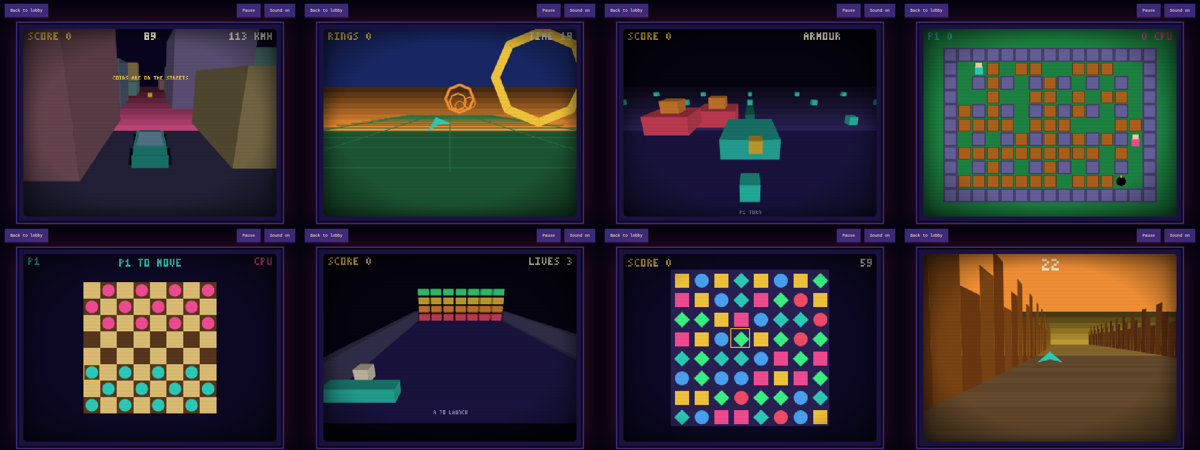
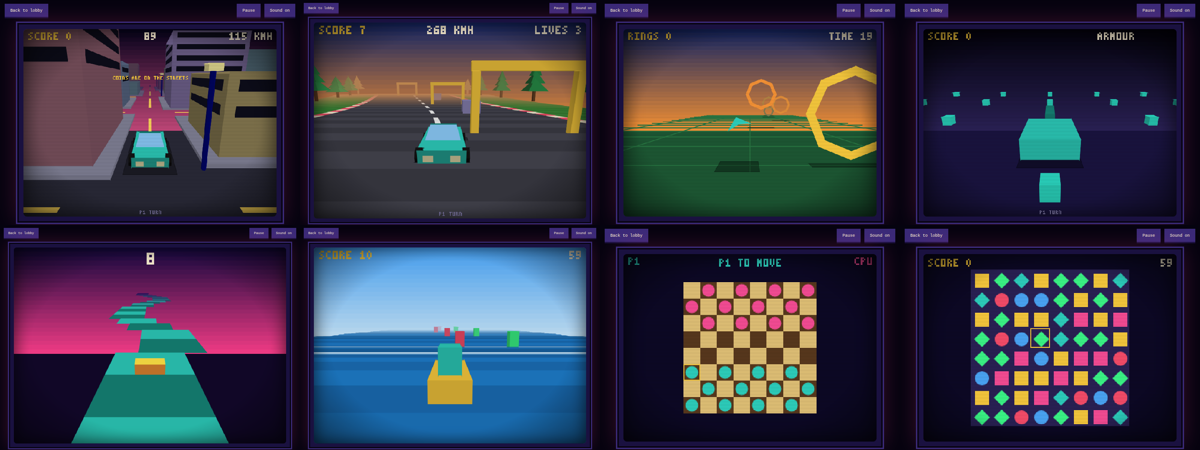
v5: HD polygon renderer, fog, lighting, shadows, detailed meshes

diff --git a/games/threed2.js b/games/threed2.js
@@ -1,14 +1,17 @@
 (function(){const A=window.A,{W,H,K}=A,R=A.rect,T=A.text,C=A.circ,L=A.line,rnd=A.rnd,ri=A.ri,cl=A.clamp,S=A.sfx,F=A.face,B3=A.box3;
 const ax=k=>(k.r?1:0)-(k.l?1:0),ay=k=>(k.d?1:0)-(k.u?1:0);
-const sky=(top,bot)=>{A.rect(0,0,W,130,top);for(let i=0;i<8;i++)A.rect(0,130-i*7-7,W,7,A.shade(bot,1-i*.1));};
+const sky=(top,bot)=>A.skyband(top,bot,130);
 const car=(x,y,z,a,col,dark)=>{const c=Math.cos(a),s=Math.sin(a),P=(px,py,pz)=>[x+px*c-pz*s,y+py,z+px*s+pz*c];const q=(p1,p2,p3,p4,cc)=>F([P(...p1),P(...p2),P(...p3),P(...p4)],cc);
- q([-.45,0,-.9],[.45,0,-.9],[.45,.35,-.9],[-.45,.35,-.9],col);q([.45,0,.9],[-.45,0,.9],[-.45,.35,.9],[.45,.35,.9],col);q([-.45,0,.9],[-.45,0,-.9],[-.45,.35,-.9],[-.45,.35,.9],col);q([.45,0,-.9],[.45,0,.9],[.45,.35,.9],[.45,.35,-.9],col);q([-.45,.35,-.9],[.45,.35,-.9],[.45,.35,.9],[-.45,.35,.9],col);
- q([-.38,.35,-.35],[.38,.35,-.35],[.3,.65,-.05],[-.3,.65,-.05],'#9fd8ff');q([.38,.35,.45],[-.38,.35,.45],[-.3,.65,.1],[.3,.65,.1],'#9fd8ff');q([-.3,.65,-.05],[.3,.65,-.05],[.3,.65,.1],[-.3,.65,.1],dark);q([-.38,.35,-.35],[-.3,.65,-.05],[-.3,.65,.1],[-.38,.35,.45],dark);q([.38,.35,.45],[.3,.65,.1],[.3,.65,-.05],[.38,.35,-.35],dark);
- [[-.5,-.55],[.5,-.55],[-.5,.55],[.5,.55]].forEach(w=>q([w[0]-.04,0,w[1]-.2],[w[0]+.04,0,w[1]-.2],[w[0]+.04,.28,w[1]+.2],[w[0]-.04,.28,w[1]+.2],'#111'));};
-const tree=(x,z,h)=>{B3(x,0,z,.25,h*.4,.25,'#5b3a1e');B3(x,h*.4,z,1,h*.6,1,'#1e8a45');};
+ A.shadow3(x,z,1.3,2.1);
+ q([-.45,.12,-.9],[.45,.12,-.9],[.45,.4,-.95],[-.45,.4,-.95],col);q([.45,.12,.9],[-.45,.12,.9],[-.45,.4,.95],[.45,.4,.95],col);q([-.45,.12,.9],[-.45,.12,-.9],[-.45,.4,-.95],[-.45,.4,.95],col);q([.45,.12,-.9],[.45,.12,.9],[.45,.4,.95],[.45,.4,-.95],col);q([-.45,.4,-.95],[.45,.4,-.95],[.45,.4,.95],[-.45,.4,.95],col);
+ q([-.38,.4,-.3],[.38,.4,-.3],[.3,.68,0],[-.3,.68,0],'#8fd0ff');q([.38,.4,.5],[-.38,.4,.5],[-.3,.68,.15],[.3,.68,.15],'#8fd0ff');q([-.3,.68,0],[.3,.68,0],[.3,.68,.15],[-.3,.68,.15],dark);q([-.38,.4,-.3],[-.3,.68,0],[-.3,.68,.15],[-.38,.4,.5],dark);q([.38,.4,.5],[.3,.68,.15],[.3,.68,0],[.38,.4,-.3],dark);
+ q([-.34,.18,-.96],[-.16,.18,-.96],[-.16,.3,-.96],[-.34,.3,-.96],'#fff7c0');q([.16,.18,-.96],[.34,.18,-.96],[.34,.3,-.96],[.16,.3,-.96],'#fff7c0');q([-.34,.18,.96],[-.16,.18,.96],[-.16,.3,.96],[-.34,.3,.96],'#ff2a2a');q([.16,.18,.96],[.34,.18,.96],[.34,.3,.96],[.16,.3,.96],'#ff2a2a');
+ [[-.48,-.58],[.48,-.58],[-.48,.58],[.48,.58]].forEach(w=>{const wp=P(w[0],.16,w[1]);A.cyl3(wp[0],wp[1],wp[2],.16,.12,'#151515',8,'x');});};
+const tree=(x,z,h)=>{A.cyl3(x,0,z,.14,h*.35,'#5b3a1e',6);for(let i=0;i<3;i++){const y=h*.3+i*h*.22,r=.9-i*.25;F([[x-r,y,z-r],[x+r,y,z-r],[x,y+h*.35,z]],'#1e8a45');F([[x+r,y,z-r],[x+r,y,z+r],[x,y+h*.35,z]],'#25a352');F([[x+r,y,z+r],[x-r,y,z+r],[x,y+h*.35,z]],'#1e8a45');F([[x-r,y,z+r],[x-r,y,z-r],[x,y+h*.35,z]],'#187a3c');}};
+const lamp=(x,z)=>{A.cyl3(x,0,z,.06,2.4,'#777',5);B3(x,2.4,z,.3,.15,.3,'#fff3a0');};
 
 /* ---- CITY CRUISER 3D ---- */
-A.add({id:'city',name:'CITY CRUISER 3D',cat:'RETRO 3D',how:'DRIVE THE GRID. GRAB COINS. DODGE CARS. 90 SEC.',warm:20,make(){
+A.add({id:'city',name:'CITY CRUISER 3D',cat:'RETRO 3D',hd:1,how:'DRIVE THE GRID. GRAB COINS. DODGE CARS. 90 SEC.',warm:20,make(){
  const g={over:null,score:0},N=6,SP=8,BC=['#5c6b8a','#8a5c6b','#6b8a5c','#7a6b9a','#9a8a5c','#5c8a8a'];let p={x:0,z:0,a:0,v:0},time=5400,coins=[],cars=[],flash=0,bld=[];
  for(let i=-N;i<N;i++)for(let j=-N;j<N;j++)bld.push({x:i*SP+SP/2,z:j*SP+SP/2,h:1.5+((i*7+j*13)%5)*.9,w:4+((i+j)%2),c:BC[(i*3+j*5+36)%6]});
  const spawnCoin=()=>{const i=ri(N*2)-N,j=ri(N*2)-N,h=Math.random()<.5;coins.push({x:h?i*SP+rnd(SP)-SP/2:i*SP,z:h?j*SP:j*SP+rnd(SP)-SP/2});};for(let i=0;i<10;i++)spawnCoin();
@@ -19,64 +22,63 @@ A.add({id:'city',name:'CITY CRUISER 3D',cat:'RETRO 3D',how:'DRIVE THE GRID. GRAB
   coins=coins.filter(c=>{if(Math.hypot(c.x-p.x,c.z-p.z)<1.1){g.score+=10;S('coin');spawnCoin();return false;}return true;});
   for(const c of cars){c.x+=Math.sin(c.a)*c.v;c.z+=Math.cos(c.a)*c.v;if(Math.abs(c.x)>N*SP||Math.abs(c.z)>N*SP)c.a+=3.1416;if(Math.hypot(c.x-p.x,c.z-p.z)<1.5&&flash===0){flash=40;g.score=Math.max(0,g.score-5);p.v*=-.5;S('boom');}}
   if(time<=0)g.over='TIME UP';};
- g.draw=()=>{sky('#0a0520','#c7497d');R(0,130,W,110,'#23223a');A.cam.x=p.x-Math.sin(p.a)*4.5;A.cam.z=p.z-Math.cos(p.a)*4.5;A.cam.y=2.2;A.cam.ry=-p.a;A.cam.rx=-.28;
-  const vis=o=>{const dx=o.x-p.x,dz=o.z-p.z;return dx*Math.sin(p.a)+dz*Math.cos(p.a)>-3&&Math.hypot(dx,dz)<34;};
-  for(let i=-N;i<=N;i++){const a=A.p3(i*SP,.01,-N*SP),b=A.p3(i*SP,.01,N*SP);}
-  bld.forEach(b=>{if(vis(b))B3(b.x,0,b.z,b.w,b.h,b.w,b.c);});
-  coins.forEach(c=>{if(vis(c))B3(c.x,.3+Math.sin(A.t*.1)*.1,c.z,.4,.4,.15,K.y);});
-  cars.forEach(c=>{if(vis(c))car(c.x,0,c.z,c.a,c.c,'#333');});if(flash%6<3)car(p.x,0,p.z,p.a,K.c,'#178a7d');A.flush();
-  // road markings drawn after flush as thin lines on ground
+ g.draw=()=>{sky('#0a0520','#c7497d');R(0,130,W,110,'#2a2a38');A.fog={col:'#3a2050',near:14,far:34};A.cam.x=p.x-Math.sin(p.a)*4.5;A.cam.z=p.z-Math.cos(p.a)*4.5;A.cam.y=2.3;A.cam.ry=-p.a;A.cam.rx=-.28;
+  const vis=(o,r)=>{const dx=o.x-p.x,dz=o.z-p.z;return dx*Math.sin(p.a)+dz*Math.cos(p.a)>-4&&Math.hypot(dx,dz)<(r||34);};
+  bld.forEach(b=>{if(!vis(b))return;B3(b.x,0,b.z,b.w+1.2,.12,b.w+1.2,'#8a8aa0');B3(b.x,0,b.z,b.w,b.h,b.w,b.c);if(vis(b,16))for(let f=.5;f<b.h-.3;f+=.7){const hw=b.w/2+.01;F([[b.x-hw+.3,f,b.z-hw],[b.x+hw-.3,f,b.z-hw],[b.x+hw-.3,f+.3,b.z-hw],[b.x-hw+.3,f+.3,b.z-hw]],'#0d0d1a',false);F([[b.x+hw-.3,f,b.z+hw],[b.x-hw+.3,f,b.z+hw],[b.x-hw+.3,f+.3,b.z+hw],[b.x+hw-.3,f+.3,b.z+hw]],'#0d0d1a',false);F([[b.x-hw,f,b.z+hw-.3],[b.x-hw,f,b.z-hw+.3],[b.x-hw,f+.3,b.z-hw+.3],[b.x-hw,f+.3,b.z+hw-.3]],'#0d0d1a',false);F([[b.x+hw,f,b.z-hw+.3],[b.x+hw,f,b.z+hw-.3],[b.x+hw,f+.3,b.z+hw-.3],[b.x+hw,f+.3,b.z-hw+.3]],'#0d0d1a',false);}});
+  for(let i=-N;i<=N;i++)for(let j=-N;j<=N;j++){const gx=i*SP,gz=j*SP;if(vis({x:gx,z:gz},30)){F([[gx-.06,.02,gz+1.6],[gx+.06,.02,gz+1.6],[gx+.06,.02,gz+SP-1.6],[gx-.06,.02,gz+SP-1.6]],'#ffd75a',false);F([[gx+1.6,.02,gz-.06],[gx+SP-1.6,.02,gz-.06],[gx+SP-1.6,.02,gz+.06],[gx+1.6,.02,gz+.06]],'#ffd75a',false);if((i+j)%2===0)lamp(gx+1.35,gz+1.35);}}
+  coins.forEach(c=>{if(vis(c))A.cyl3(c.x,.35+Math.sin(A.t*.1)*.1,c.z,.3,.12,K.y,8,'x');});
+  cars.forEach(c=>{if(vis(c))car(c.x,0,c.z,c.a,c.c,'#333');});if(flash%6<3)car(p.x,0,p.z,p.a,K.c,'#178a7d');A.flush();A.fog=null;
   T('SCORE '+g.score,6,4,K.y,2);T(Math.ceil(time/60),160,4,time<600?K.r:K.w,2,'c');T(Math.round(Math.abs(p.v)*600)+' KMH',W-6,4,K.w,2,'r');if(A.t<180)T('COINS ARE ON THE STREETS',160,60,K.y,1,'c');};
  return g;}});
 
 /* ---- MESH DRIFT 3D ---- */
-A.add({id:'drift',name:'MESH DRIFT 3D',cat:'RETRO 3D',how:'STEER. UP GAS. PASS GATES FOR POINTS.',make(){
+A.add({id:'drift',name:'MESH DRIFT 3D',cat:'RETRO 3D',hd:1,how:'STEER. UP GAS. PASS GATES FOR POINTS.',make(){
  const g={over:null,score:0};let d=0,x=0,v=.12,lives=3,inv=0,gates=[],rocks=[];const cx=z=>Math.sin(z*.05)*6+Math.sin(z*.021)*4,hy=z=>Math.sin(z*.08)*.6;
  for(let i=1;i<20;i++){gates.push({z:i*14,x:rnd(6)-3,ok:0});rocks.push({z:i*14+7,x:rnd(10)-5});}
  g.update=()=>{const k=A.in(0);v+=k.u||k.a?.003:-.001;v=cl(v,.08,.3);d+=v;x+=ax(k)*.16;x=cl(x,-6,6);if(inv>0)inv--;
   for(const q of gates){if(!q.ok&&q.z<d){q.ok=1;if(Math.abs(cx(q.z)+q.x-x)<1.6){g.score+=50;S('coin');}}if(q.z<d-4){q.z+=280;q.x=rnd(6)-3;q.ok=0;}}
   for(const r of rocks){if(r.z<d-4){r.z+=280;r.x=rnd(10)-5;}if(inv===0&&Math.abs(r.z-d)<1.2&&Math.abs(cx(r.z)+r.x-x)<1.1){lives--;inv=80;v=.08;S('boom');if(lives<=0)g.over='WRECKED';}}
   if(A.t%20===0)g.score++;};
- g.draw=()=>{sky('#1a2a6a','#ff9838');R(0,130,W,110,'#7a4f1d');const px=cx(d)+x,py=hy(d);A.cam.x=px-Math.sin(0)*0;A.cam.z=d-4;A.cam.y=py+1.6;A.cam.ry=0;A.cam.rx=-.2;A.cam.x=cx(d-4)+x*.8;
-  for(let z=Math.floor(d)-2;z<d+34;z++){const a=cx(z),b=cx(z+1),ya=hy(z),yb=hy(z+1);F([[a-7,ya,z],[a+7,ya,z],[b+7,yb,z+1],[b-7,yb,z+1]],z%2?'#4a4a55':'#3e3e48');F([[a-7.6,ya,z],[a-7,ya,z],[b-7,yb,z+1],[b-7.6,yb,z+1]],z%2?K.r:K.w);F([[a+7,ya,z],[a+7.6,ya,z],[b+7.6,yb,z+1],[b+7,yb,z+1]],z%2?K.r:K.w);if(z%6===0)tree(a-11,z,2.5+(z%5)*.3),tree(b+11,z,2+(z%7)*.3);}
+ g.draw=()=>{sky('#1a2a6a','#ff9838');C(160,118,22,'#ffd75a');R(0,130,W,110,'#7a4f1d');A.fog={col:'#c78a5a',near:16,far:36};const px=cx(d)+x,py=hy(d);A.cam.x=px-Math.sin(0)*0;A.cam.z=d-4;A.cam.y=py+1.6;A.cam.ry=0;A.cam.rx=-.2;A.cam.x=cx(d-4)+x*.8;
+  for(let z=Math.floor(d)-2;z<d+34;z++){const a=cx(z),b=cx(z+1),ya=hy(z),yb=hy(z+1);F([[a-7,ya,z],[a+7,ya,z],[b+7,yb,z+1],[b-7,yb,z+1]],z%2?'#4a4a55':'#3e3e48');if(z%4<2&&z>d)F([[a-.12,ya+.01,z],[a+.12,ya+.01,z],[b+.12,yb+.01,z+1],[b-.12,yb+.01,z+1]],'#e8e8e8',false);F([[a-16,ya-.2,z],[a-7.6,ya,z],[b-7.6,yb,z+1],[b-16,yb-.2,z+1]],z%2?'#3f8a3a':'#377f33');F([[a+7.6,ya,z],[a+16,ya-.2,z],[b+16,yb-.2,z+1],[b+7.6,yb,z+1]],z%2?'#3f8a3a':'#377f33');F([[a-7.6,ya,z],[a-7,ya,z],[b-7,yb,z+1],[b-7.6,yb,z+1]],z%2?K.r:K.w);F([[a+7,ya,z],[a+7.6,ya,z],[b+7.6,yb,z+1],[b+7,yb,z+1]],z%2?K.r:K.w);if(z%6===0)tree(a-11,z,2.5+(z%5)*.3),tree(b+11,z,2+(z%7)*.3);}
   gates.forEach(q=>{if(q.z>d-2&&q.z<d+34){const gx=cx(q.z)+q.x,gy=hy(q.z);B3(gx-1.7,gy,q.z,.25,2.2,.25,q.ok?K.gr:K.y);B3(gx+1.7,gy,q.z,.25,2.2,.25,q.ok?K.gr:K.y);B3(gx,gy+2.2,q.z,3.7,.3,.25,q.ok?K.gr:K.y);}});
   rocks.forEach(r=>{if(r.z>d-2&&r.z<d+34)B3(cx(r.z)+r.x,hy(r.z),r.z,1.2,.9,1.2,'#8d86b8');});
-  if(inv%8<5)car(px,py,d,ax(A.in(0))*.25,K.c,'#178a7d');A.flush();T('SCORE '+g.score,6,4,K.y,2);T('LIVES '+lives,W-6,4,lives<2?K.r:K.w,2,'r');T(Math.round(v*900)+' KMH',160,4,K.w,2,'c');};
+  if(inv%8<5)car(px,py,d,ax(A.in(0))*.25,K.c,'#178a7d');A.flush();A.fog=null;T('SCORE '+g.score,6,4,K.y,2);T('LIVES '+lives,W-6,4,lives<2?K.r:K.w,2,'r');T(Math.round(v*900)+' KMH',160,4,K.w,2,'c');};
  return g;}});
 
 /* ---- CUBE FIELD 3D ---- */
-A.add({id:'cubes',name:'CUBE FIELD 3D',cat:'RETRO 3D',how:'STEER LEFT/RIGHT. NEVER STOP. SURVIVE.',make(){
+A.add({id:'cubes',name:'CUBE FIELD 3D',cat:'RETRO 3D',hd:1,how:'STEER LEFT/RIGHT. NEVER STOP. SURVIVE.',make(){
  const g={over:null,score:0};let x=0,z=0,v=.14,cubes=[],hue=0;for(let i=0;i<90;i++)cubes.push({x:rnd(40)-20,z:rnd(80)+5,c:i%3});
  g.update=()=>{const k=A.in(0);x+=ax(k)*.22;z+=v;v+=.00008;g.score=z*2|0;hue=(z/50)|0;
   for(const c of cubes){if(c.z<z-1){c.z+=80+rnd(6);c.x=x+rnd(40)-20;}if(Math.abs(c.z-z)<.9&&Math.abs(c.x-x)<1.1){g.over='CRASHED';S('boom');}}};
- g.draw=()=>{const pal=[['#0a0520','#ff3f8e','#2fe8d0'],['#03101f','#ffcf3f','#4dabff'],['#1a0a0a','#3dff8b','#ff9838'],['#0f0f1a','#ffffff','#ff4f6d']][hue%4];sky(pal[0],pal[0]);R(0,120,W,120,'#111');A.cam.x=x;A.cam.z=z-3;A.cam.y=1.4;A.cam.ry=0;A.cam.rx=-.15;
+ g.draw=()=>{const pal=[['#0a0520','#ff3f8e','#2fe8d0'],['#03101f','#ffcf3f','#4dabff'],['#1a0a0a','#3dff8b','#ff9838'],['#0f0f1a','#ffffff','#ff4f6d']][hue%4];sky(pal[0],'#000');R(0,120,W,120,'#111');A.fog={col:pal[0],near:20,far:60};A.cam.x=x;A.cam.z=z-3;A.cam.y=1.4;A.cam.ry=0;A.cam.rx=-.15;
   for(let i=-20;i<=20;i+=4){const a=A.p3(x+i,0,z+1),b=A.p3(x+i,0,z+60);if(a[2]>.1&&b[2]>.1)L(a[0],a[1],b[0],b[1],pal[1]);}
-  cubes.forEach(c=>{if(c.z>z-1&&c.z<z+60)B3(c.x,0,c.z,1.4,1.4+c.c*.8,1.4,c.c?pal[1]:pal[2]);});A.flush();T(g.score,160,6,K.w,3,'c');};
+  cubes.forEach(c=>{if(c.z>z-1&&c.z<z+60)B3(c.x,0,c.z,1.4,1.4+c.c*.8,1.4,c.c?pal[1]:pal[2]);});A.flush();A.fog=null;T(g.score,160,6,K.w,3,'c');};
  return g;}});
 
 /* ---- TUNNEL RUN 3D ---- */
-A.add({id:'tunnel',name:'TUNNEL RUN 3D',cat:'RETRO 3D',how:'MOVE TO THE GAP IN EACH WALL.',make(){
+A.add({id:'tunnel',name:'TUNNEL RUN 3D',cat:'RETRO 3D',hd:1,how:'MOVE TO THE GAP IN EACH WALL.',make(){
  const g={over:null,score:0};let px=0,py=0,z=0,v=.16,walls=[];for(let i=1;i<12;i++)walls.push({z:i*9,gx:ri(3)-1,gy:ri(3)-1,ok:0});
  g.update=()=>{const k=A.in(0);px=cl(px+ax(k)*.16,-1.8,1.8);py=cl(py-ay(k)*.16,-1.8,1.8);z+=v;v+=.00012;
   for(const w of walls){if(!w.ok&&w.z<z){w.ok=1;const inG=Math.abs(px-w.gx*1.9)<1&&Math.abs(py-w.gy*1.9)<1;if(inG){g.score+=10;S('coin');}else{g.over='SMASHED';S('boom');}}if(w.z<z-2){w.z+=99;w.gx=ri(3)-1;w.gy=ri(3)-1;w.ok=0;}}};
- g.draw=()=>{A.cls('#05030f');A.cam.x=px*.4;A.cam.y=py*.4;A.cam.z=z-3;A.cam.ry=0;A.cam.rx=0;
+ g.draw=()=>{A.cls('#05030f');A.fog={col:'#05030f',near:25,far:75};A.cam.x=px*.4;A.cam.y=py*.4;A.cam.z=z-3;A.cam.ry=0;A.cam.rx=0;
   for(let i=0;i<12;i++){const zz=Math.floor(z/8)*8+i*8,c=i%2?'#2b2257':'#1b1440';F([[-3,-3,zz],[3,-3,zz],[3,-3,zz+8],[-3,-3,zz+8]],c);F([[-3,3,zz],[3,3,zz],[3,3,zz+8],[-3,3,zz+8]],c);F([[-3,-3,zz],[-3,3,zz],[-3,3,zz+8],[-3,-3,zz+8]],c);F([[3,-3,zz],[3,3,zz],[3,3,zz+8],[3,-3,zz+8]],c);}
   walls.forEach(w=>{if(w.z<z+70)for(let i=-1;i<=1;i++)for(let j=-1;j<=1;j++)if(!(i===w.gx&&j===w.gy))F([[i*1.9-.95,j*1.9-.95,w.z],[i*1.9+.95,j*1.9-.95,w.z],[i*1.9+.95,j*1.9+.95,w.z],[i*1.9-.95,j*1.9+.95,w.z]],w.z-z<12?K.p:'#a0205a');});
-  A.flush();const s=A.p3(px,py,z+1.5);A.poly([[s[0],s[1]-6],[s[0]-9,s[1]+5],[s[0],s[1]+2],[s[0]+9,s[1]+5]],K.c,1);T(g.score,160,6,K.w,3,'c');};
+  A.flush();A.fog=null;const s=A.p3(px,py,z+1.5);A.poly([[s[0],s[1]-6],[s[0]-9,s[1]+5],[s[0],s[1]+2],[s[0]+9,s[1]+5]],K.c,1);T(g.score,160,6,K.w,3,'c');};
  return g;}});
 
 /* ---- TRENCH RUN 3D ---- */
-A.add({id:'trench',name:'TRENCH RUN 3D',cat:'RETRO 3D',how:'FLY. A FIRES. BLAST TURRETS, DODGE BARS.',make(){
+A.add({id:'trench',name:'TRENCH RUN 3D',cat:'RETRO 3D',hd:1,how:'FLY. A FIRES. BLAST TURRETS, DODGE BARS.',make(){
  const g={over:null,score:0};let px=0,py=0,z=0,v=.15,ob=[],bl=[],sh=3,inv=0;for(let i=1;i<16;i++)ob.push({z:i*10,t:i%3===0?1:0,x:ri(3)-1,y:ri(2),hp:1});
  g.update=()=>{const k=A.in(0);px=cl(px+ax(k)*.14,-2,2);py=cl(py-ay(k)*.14,-1.5,1.5);z+=v;if(inv>0)inv--;if(A.hit(0).a&&bl.length<4){bl.push({x:px,y:py,z:z+1});S('shoot');}
   bl.forEach(b=>b.z+=.9);bl=bl.filter(b=>b.z<z+60);
   for(const o of ob){if(o.t===1&&o.hp>0)for(const b of bl)if(Math.abs(b.z-o.z)<1&&Math.abs(b.x-o.x*1.5)<.9&&Math.abs(b.y-(o.y?1:-1.5))<1){o.hp=0;b.z=999;g.score+=100;S('hit');}
    if(o.z<z+.5&&o.z>z-.5&&inv===0){const hit=o.t===0?(o.y?py>-.2:py<.2)&&true:o.hp>0&&Math.abs(px-o.x*1.5)<1&&Math.abs(py-(o.y?1:-1.5))<1;if(hit){sh--;inv=70;S('boom');if(sh<=0)g.over='SHIP LOST';}}
    if(o.z<z-2){o.z+=150;o.t=Math.random()<.35?1:0;o.x=ri(3)-1;o.y=ri(2);o.hp=1;}}if(A.t%30===0)g.score++;};
- g.draw=()=>{A.cls('#05030f');A.cam.x=px*.5;A.cam.y=py*.5+.2;A.cam.z=z-3;A.cam.ry=0;A.cam.rx=0;
+ g.draw=()=>{A.cls('#05030f');A.fog={col:'#05030f',near:30,far:75};A.cam.x=px*.5;A.cam.y=py*.5+.2;A.cam.z=z-3;A.cam.ry=0;A.cam.rx=0;
   for(let i=0;i<10;i++){const zz=Math.floor(z/8)*8+i*8,c=i%2?'#4a4570':'#3a3560';F([[-3,-2,zz],[3,-2,zz],[3,-2,zz+8],[-3,-2,zz+8]],c);F([[-3,-2,zz],[-3,2.5,zz],[-3,2.5,zz+8],[-3,-2,zz+8]],c);F([[3,-2,zz],[3,2.5,zz],[3,2.5,zz+8],[3,-2,zz+8]],c);}
   ob.forEach(o=>{if(o.z<z+70&&o.z>z-1){if(o.t===0)B3(0,o.y?-.1:-2,o.z,6,1.6,.5,K.r);else if(o.hp>0)B3(o.x*1.5,o.y?.5:-2,o.z,1,1,1,K.o);}});
-  A.flush();bl.forEach(b=>{const p=A.p3(b.x,b.y,b.z);if(p[2]>.1)R(p[0]-1,p[1]-1,3,3,K.g);});if(inv%8<5){const s=A.p3(px,py,z+1.5);A.poly([[s[0],s[1]-7],[s[0]-11,s[1]+6],[s[0],s[1]+2],[s[0]+11,s[1]+6]],K.c,1);}
+  A.flush();A.fog=null;bl.forEach(b=>{const p=A.p3(b.x,b.y,b.z);if(p[2]>.1)R(p[0]-1,p[1]-1,3,3,K.g);});if(inv%8<5){const s=A.p3(px,py,z+1.5);A.poly([[s[0],s[1]-7],[s[0]-11,s[1]+6],[s[0],s[1]+2],[s[0]+11,s[1]+6]],K.c,1);}
   T('SCORE '+g.score,6,4,K.y,2);T('SHIELDS '+sh,W-6,4,sh<2?K.r:K.w,2,'r');};
  return g;}});
 })();

diff --git a/games/threed3.js b/games/threed3.js
@@ -1,32 +1,32 @@
 (function(){const A=window.A,{W,H,K}=A,R=A.rect,T=A.text,C=A.circ,L=A.line,rnd=A.rnd,ri=A.ri,cl=A.clamp,S=A.sfx,F=A.face,B3=A.box3;
 const ax=k=>(k.r?1:0)-(k.l?1:0),ay=k=>(k.d?1:0)-(k.u?1:0);
-const sky=(top,bot)=>{A.rect(0,0,W,130,top);for(let i=0;i<8;i++)A.rect(0,130-i*7-7,W,7,A.shade(bot,1-i*.1));};
+const sky=(top,bot)=>A.skyband(top,bot,130);
 const ring3=(x,y,z,r,col)=>{for(let i=0;i<8;i++){const a=i*.785,b=a+.785;F([[x+Math.cos(a)*r,y+Math.sin(a)*r,z],[x+Math.cos(b)*r,y+Math.sin(b)*r,z],[x+Math.cos(b)*(r+.3),y+Math.sin(b)*(r+.3),z],[x+Math.cos(a)*(r+.3),y+Math.sin(a)*(r+.3),z]],col,false);}};
 
 /* ---- RING RACE 3D ---- */
-A.add({id:'rings',name:'RING RACE 3D',cat:'RETRO 3D',how:'FLY THROUGH EVERY RING. EACH ONE ADDS TIME.',make(){
+A.add({id:'rings',name:'RING RACE 3D',cat:'RETRO 3D',hd:1,how:'FLY THROUGH EVERY RING. EACH ONE ADDS TIME.',make(){
  const g={over:null,score:0};let px=0,py=1.5,z=0,v=.2,time=1200,rings=[],roll=0;for(let i=1;i<10;i++)rings.push({z:i*12,x:rnd(6)-3,y:1+rnd(3),ok:0});
  g.update=()=>{time--;const k=A.in(0);px=cl(px+ax(k)*.13,-4,4);py=cl(py-ay(k)*.13,.4,5);roll+=(ax(k)*.4-roll)*.1;z+=v;v=Math.min(.34,v+.0001);
   for(const r of rings){if(!r.ok&&r.z<z){r.ok=1;if(Math.hypot(px-r.x,py-r.y)<1.3){g.score+=10;time+=240;S('coin');}else S('lose');}if(r.z<z-2){r.z+=108;r.x=rnd(6)-3;r.y=1+rnd(3);r.ok=0;}}if(time<=0)g.over='TIME UP';};
- g.draw=()=>{sky('#1a2a6a','#ff9838');R(0,130,W,110,'#1e5a35');A.cam.x=px*.9;A.cam.y=py*.9+.6;A.cam.z=z-4;A.cam.ry=0;A.cam.rx=-.08;
+ g.draw=()=>{sky('#1a2a6a','#ff9838');R(0,130,W,110,'#1e5a35');A.fog={col:'#6a7a5a',near:25,far:60};A.cam.x=px*.9;A.cam.y=py*.9+.6;A.cam.z=z-4;A.cam.ry=0;A.cam.rx=-.08;
   for(let i=-4;i<=4;i+=2){const a=A.p3(px*.9+i*3,0,z+1),b=A.p3(px*.9+i*3,0,z+50);if(a[2]>.1&&b[2]>.1)L(a[0],a[1],b[0],b[1],'#2a7a45');}
   for(let zz=Math.floor(z/3)*3;zz<z+50;zz+=3){const a=A.p3(px*.9-14,0,zz),b=A.p3(px*.9+14,0,zz);if(a[2]>.1)L(a[0],a[1],b[0],b[1],'#2a7a45');}
-  rings.forEach(r=>{if(r.z>z-1&&r.z<z+60)ring3(r.x,r.y,r.z,1.3,r.ok?K.gr:r.z-z<12?K.y:K.o);});A.flush();
+  rings.forEach(r=>{if(r.z>z-1&&r.z<z+60){ring3(r.x,r.y,r.z,1.3,r.ok?K.gr:r.z-z<12?K.y:K.o);A.shadow3(r.x,r.z,2.8,.4);}});A.shadow3(px,z+1.5,1.4,1);A.flush();A.fog=null;
   const s=A.p3(px,py,z+1.5),c=Math.cos(roll),sn=Math.sin(roll),P=(x,y)=>[s[0]+x*c-y*sn,s[1]+x*sn+y*c];A.poly([P(0,-8),P(-16,6),P(0,2),P(16,6)],K.c,1);
   T('RINGS '+g.score/10,6,4,K.y,2);T('TIME '+Math.ceil(time/60),W-6,4,time<300?K.r:K.w,2,'r');};
  return g;}});
 
 /* ---- CANYON RUN 3D ---- */
-A.add({id:'canyon',name:'CANYON RUN 3D',cat:'RETRO 3D',how:'FLY THE CANYON. WALLS CLOSE IN. DON\'T TOUCH.',make(){
+A.add({id:'canyon',name:'CANYON RUN 3D',cat:'RETRO 3D',hd:1,how:'FLY THE CANYON. WALLS CLOSE IN. DON\'T TOUCH.',make(){
  const g={over:null,score:0};let px=0,z=0,v=.2;const cx=z=>Math.sin(z*.03)*4+Math.sin(z*.011)*3,hw=z=>Math.max(2.6,6-z*.005);
  g.update=()=>{const k=A.in(0);px+=ax(k)*.14;z+=v;v+=.0001;g.score=z|0;if(Math.abs(px-cx(z))>hw(z)-.5){g.over='CRASHED';S('boom');}};
- g.draw=()=>{sky('#ff9838','#ffcf3f');A.cam.x=px;A.cam.y=1.5;A.cam.z=z-3;A.cam.ry=0;A.cam.rx=-.05;
+ g.draw=()=>{sky('#ff9838','#ffcf3f');A.fog={col:'#ffb060',near:20,far:48};A.cam.x=px;A.cam.y=1.5;A.cam.z=z-3;A.cam.ry=0;A.cam.rx=-.05;
   for(let zz=Math.floor(z)-1;zz<z+45;zz++){const a=cx(zz),b=cx(zz+1),wa=hw(zz),wb=hw(zz+1),h=3+(zz%3),c1=zz%2?'#b5651d':'#a0521a',c2=zz%2?'#8a4a1d':'#7a3f18';F([[a-wa,0,zz],[a+wa,0,zz],[b+wb,0,zz+1],[b-wb,0,zz+1]],zz%2?'#c4915a':'#b8864f');F([[a-wa,0,zz],[a-wa,h,zz],[b-wb,h,zz+1],[b-wb,0,zz+1]],c1);F([[a+wa,0,zz],[a+wa,h,zz],[b+wb,h,zz+1],[b+wb,0,zz+1]],c2);}
-  A.flush();const s=A.p3(px,1,z+1.5);A.poly([[s[0],s[1]-8],[s[0]-16,s[1]+6],[s[0],s[1]+2],[s[0]+16,s[1]+6]],K.c,1);T(g.score,160,6,K.w,3,'c');};
+  A.shadow3(px,z+1.5,1.4,1);A.flush();A.fog=null;const s=A.p3(px,1,z+1.5);A.poly([[s[0],s[1]-8],[s[0]-16,s[1]+6],[s[0],s[1]+2],[s[0]+16,s[1]+6]],K.c,1);T(g.score,160,6,K.w,3,'c');};
  return g;}});
 
 /* ---- BRICK BREAKER 3D ---- */
-A.add({id:'bricks3d',name:'BRICK BREAKER 3D',cat:'RETRO 3D',how:'MOVE THE PADDLE. A LAUNCHES. CLEAR THE WALL.',make(){
+A.add({id:'bricks3d',name:'BRICK BREAKER 3D',cat:'RETRO 3D',hd:1,how:'MOVE THE PADDLE. A LAUNCHES. CLEAR THE WALL.',make(){
  const g={over:null,score:0};let px=0,b,br=[],lives=3,stuck=true,lvl=0;
  const build=()=>{lvl++;br=[];for(let r=0;r<4;r++)for(let c=0;c<7;c++)br.push({x:(c-3)*1.2,y:.5+r*.8,c:[K.r,K.o,K.y,K.g][r]});};const nb=()=>{b={x:0,y:.4,z:0,vx:0,vz:.16+lvl*.02};stuck=true;};build();nb();
  g.update=()=>{const k=A.in(0);px=cl(px+ax(k)*.14,-3.5,3.5);if(stuck){b.x=px;b.z=.3;if(A.hit(0).a){stuck=false;b.vx=rnd(.1)-.05;}return;}
@@ -41,38 +41,38 @@ A.add({id:'bricks3d',name:'BRICK BREAKER 3D',cat:'RETRO 3D',how:'MOVE THE PADDLE
  return g;}});
 
 /* ---- HOVER TANK 3D ---- */
-A.add({id:'hover',name:'HOVER TANK 3D',cat:'RETRO 3D',how:'TURN + DRIVE. A FIRES. DESTROY 10 DRONES.',make(){
+A.add({id:'hover',name:'HOVER TANK 3D',cat:'RETRO 3D',hd:1,how:'TURN + DRIVE. A FIRES. DESTROY 10 DRONES.',make(){
  const g={over:null,score:0};let p={x:0,z:0,a:0},en=[],sh=[],eb=[],hp=5,inv=0,t=0;const spawn=()=>{const a=rnd(6.28);en.push({x:p.x+Math.cos(a)*22,z:p.z+Math.sin(a)*22,cd:60+ri(60)});};for(let i=0;i<3;i++)spawn();
  g.update=()=>{t++;if(inv>0)inv--;const k=A.in(0);p.a+=ax(k)*.045;const mv=-ay(k)*.16;p.x=cl(p.x+Math.sin(p.a)*mv,-30,30);p.z=cl(p.z+Math.cos(p.a)*mv,-30,30);
   if(A.hit(0).a&&sh.length<3){sh.push({x:p.x,z:p.z,vx:Math.sin(p.a)*.7,vz:Math.cos(p.a)*.7,t:60});S('shoot');}sh.forEach(s=>{s.x+=s.vx;s.z+=s.vz;s.t--;});sh=sh.filter(s=>s.t>0);
   for(const e of en){const dx=p.x-e.x,dz=p.z-e.z,d=Math.hypot(dx,dz);if(d>8){e.x+=dx/d*.05;e.z+=dz/d*.05;}else{e.x+=dz/d*.05;e.z-=dx/d*.05;}if(--e.cd<=0){e.cd=90+ri(60);eb.push({x:e.x,z:e.z,vx:dx/d*.3,vz:dz/d*.3,t:80});}
    for(const s of sh)if(Math.hypot(s.x-e.x,s.z-e.z)<1.2){e.dead=1;s.t=0;g.score+=100;S('hit');}}en=en.filter(e=>!e.dead);while(en.length<3&&g.score<1000)spawn();
   for(const b of eb){b.x+=b.vx;b.z+=b.vz;b.t--;if(inv===0&&Math.hypot(b.x-p.x,b.z-p.z)<1){b.t=0;hp--;inv=60;S('boom');if(hp<=0)g.over='TANK DESTROYED';}}eb=eb.filter(b=>b.t>0);if(g.score>=1000)g.over='ALL DRONES DOWN! WIN';};
- g.draw=()=>{sky('#05030f','#2b2257');R(0,130,W,110,'#1a1440');A.cam.x=p.x-Math.sin(p.a)*5;A.cam.z=p.z-Math.cos(p.a)*5;A.cam.y=2.5;A.cam.ry=-p.a;A.cam.rx=-.3;
+ g.draw=()=>{sky('#05030f','#2b2257');R(0,130,W,110,'#1a1440');A.fog={col:'#1a1440',near:18,far:40};A.cam.x=p.x-Math.sin(p.a)*5;A.cam.z=p.z-Math.cos(p.a)*5;A.cam.y=2.5;A.cam.ry=-p.a;A.cam.rx=-.3;
   for(let i=-30;i<=30;i+=5)for(let j=-30;j<=30;j+=5){const d=Math.hypot(i-p.x,j-p.z);if(d<28)B3(i,0,j,.4,.4,.4,'#2fe8d0');}
   en.forEach(e=>{if(Math.hypot(e.x-p.x,e.z-p.z)<40){B3(e.x,.6,e.z,1.4,.6,1.4,K.r);B3(e.x,1.2,e.z,.6,.4,.6,K.o);}});eb.forEach(b=>B3(b.x,.8,b.z,.3,.3,.3,K.y));sh.forEach(s=>B3(s.x,.6,s.z,.3,.3,.6,K.g));
-  if(inv%6<4){B3(p.x,.2,p.z,1.6,.6,2,K.c);const c=Math.sin(p.a),s=Math.cos(p.a);B3(p.x+c*.8,.9,p.z+s*.8,.3,.3,1.4,'#178a7d');}A.flush();
+  if(inv%6<4){A.shadow3(p.x,p.z,1.8,2.2);B3(p.x,.2,p.z,1.6,.6,2,K.c);const c=Math.sin(p.a),s=Math.cos(p.a);B3(p.x+c*.8,.9,p.z+s*.8,.3,.3,1.4,'#178a7d');}en.forEach(e=>A.shadow3(e.x,e.z,1.6,1.6));A.flush();A.fog=null;
   T('SCORE '+g.score,6,4,K.y,2);T('ARMOUR '+'|'.repeat(hp),W-6,4,hp<2?K.r:K.w,2,'r');};
  return g;}});
 
 /* ---- ROLLER 3D ---- */
-A.add({id:'roller',name:'ROLLER 3D',cat:'RETRO 3D',how:'ROLL THE BALL. A JUMPS. STAY ON THE PATH.',make(){
- const g={over:null,score:0};let p={x:0,y:0,z:0,vx:0,vy:0,vz:.12},tiles=[],spin=0;for(let i=0;i<40;i++)tiles.push({x:Math.round(Math.sin(i*.4)*2),z:i*2,w:i%7===6?0:3});
+A.add({id:'roller',name:'ROLLER 3D',cat:'RETRO 3D',hd:1,how:'ROLL THE BALL. A JUMPS. STAY ON THE PATH.',make(){
+ const g={over:null,score:0};let p={x:0,y:0,z:0,vx:0,vy:0,vz:.12},tiles=[],spin=0;for(let i=0;i<40;i++)tiles.push({x:i<6?0:Math.round(Math.sin(i*.4)*2),z:i*2,w:i%7===6||i<8?3:3});
  const on=()=>tiles.some(t=>t.w&&Math.abs(p.x-t.x)<t.w/2+.3&&Math.abs(p.z-t.z)<1.3);
  g.update=()=>{const k=A.in(0);p.vx=(p.vx+ax(k)*.02)*.9;p.x+=p.vx;p.z+=p.vz;spin+=p.vz;g.score=p.z|0;const ground=on()&&p.y<=0.01;if(ground){p.y=0;p.vy=0;if(A.hit(0).a){p.vy=.22;S('jump');}}else{p.vy-=.012;}p.y+=p.vy;if(p.y<-6){g.over='FELL OFF';S('boom');}
-  for(const t of tiles)if(t.z<p.z-4){t.z+=80;t.x=Math.round(Math.sin(t.z*.2)*2);t.w=Math.random()<.15?0:3;}};
- g.draw=()=>{sky('#1a0a44','#ff3f8e');R(0,130,W,110,'#12082a');A.cam.x=p.x;A.cam.y=p.y*.5+3;A.cam.z=p.z-5;A.cam.ry=0;A.cam.rx=-.35;
+  for(const t of tiles)if(t.z<p.z-4){t.z+=80;t.x=Math.round(Math.sin(t.z*.2)*2);t.w=Math.random()<.12?0:3;}};
+ g.draw=()=>{sky('#1a0a44','#ff3f8e');R(0,130,W,110,'#12082a');A.fog={col:'#3a1060',near:20,far:50};A.cam.x=p.x;A.cam.y=p.y*.5+3;A.cam.z=p.z-5;A.cam.ry=0;A.cam.rx=-.35;
   tiles.forEach(t=>{if(t.w&&t.z>p.z-6&&t.z<p.z+50)F([[t.x-1.5,0,t.z-1],[t.x+1.5,0,t.z-1],[t.x+1.5,0,t.z+1],[t.x-1.5,0,t.z+1]],(t.z/2|0)%2?K.c:'#178a7d');});
-  const r=.45,y=p.y+r;for(let i=0;i<4;i++){const a=spin+i*1.57;F([[p.x-r,y+Math.sin(a)*r*.6,p.z+Math.cos(a)*r*.6],[p.x+r,y+Math.sin(a)*r*.6,p.z+Math.cos(a)*r*.6],[p.x+r,y+Math.sin(a+1.57)*r*.6,p.z+Math.cos(a+1.57)*r*.6],[p.x-r,y+Math.sin(a+1.57)*r*.6,p.z+Math.cos(a+1.57)*r*.6]],i%2?K.y:K.o);}A.flush();T(g.score,160,6,K.w,3,'c');};
+  const r=.45,y=p.y+r;for(let i=0;i<4;i++){const a=spin+i*1.57;F([[p.x-r,y+Math.sin(a)*r*.6,p.z+Math.cos(a)*r*.6],[p.x+r,y+Math.sin(a)*r*.6,p.z+Math.cos(a)*r*.6],[p.x+r,y+Math.sin(a+1.57)*r*.6,p.z+Math.cos(a+1.57)*r*.6],[p.x-r,y+Math.sin(a+1.57)*r*.6,p.z+Math.cos(a+1.57)*r*.6]],i%2?K.y:K.o);}if(on())A.shadow3(p.x,p.z,.9,.9);A.flush();A.fog=null;T(g.score,160,6,K.w,3,'c');};
  return g;}});
 
 /* ---- WAVE RIDER 3D ---- */
-A.add({id:'waverider',name:'WAVE RIDER 3D',cat:'RETRO 3D',how:'STEER BETWEEN THE BUOYS. RED LEFT, GREEN RIGHT. 60 SEC.',make(){
+A.add({id:'waverider',name:'WAVE RIDER 3D',cat:'RETRO 3D',hd:1,how:'STEER BETWEEN THE BUOYS. RED LEFT, GREEN RIGHT. 60 SEC.',make(){
  const g={over:null,score:0};let px=0,z=0,v=.22,gates=[],time=3600,miss=0;for(let i=1;i<12;i++)gates.push({z:i*9,x:rnd(6)-3,ok:0});
  g.update=()=>{time--;const k=A.in(0);px=cl(px+ax(k)*.13,-6,6);z+=v;for(const q of gates){if(!q.ok&&q.z<z){q.ok=1;if(Math.abs(px-q.x)<1.4){g.score+=10;S('coin');}else{miss++;S('lose');}}if(q.z<z-2){q.z+=99;q.x=rnd(6)-3;q.ok=0;}}if(time<=0)g.over=g.score+' PTS, '+miss+' MISSED';};
- g.draw=()=>{sky('#4dabff','#9fd8ff');A.cam.x=px;A.cam.y=1.4;A.cam.z=z-3.5;A.cam.ry=0;A.cam.rx=-.12;
+ g.draw=()=>{sky('#4dabff','#dff4ff');A.fog={col:'#bfe4ff',near:18,far:42};A.cam.x=px;A.cam.y=1.4;A.cam.z=z-3.5;A.cam.ry=0;A.cam.rx=-.12;
   for(let zz=Math.floor(z)-1;zz<z+40;zz++){const w=Math.sin(zz*.7+A.t*.1)*.15;F([[px-14,w,zz],[px+14,w,zz],[px+14,-w,zz+1],[px-14,-w,zz+1]],zz%2?'#1b6fb8':'#1f7fcf');}
   gates.forEach(q=>{if(q.z>z-1&&q.z<z+45){B3(q.x-1.6,0,q.z,.5,1,.5,K.r);B3(q.x+1.6,0,q.z,.5,1,.5,K.g);}});
-  B3(px,.1,z,.7,.4,1.6,K.y);B3(px,.5,z-.2,.4,.5,.6,K.c);A.flush();T('SCORE '+g.score,6,4,K.y,2);T(Math.ceil(time/60),W-6,4,K.w,2,'r');};
+  B3(px,.1,z,.7,.4,1.6,K.y);B3(px,.5,z-.2,.4,.5,.6,K.c);A.flush();A.fog=null;T('SCORE '+g.score,6,4,K.y,2);T(Math.ceil(time/60),W-6,4,K.w,2,'r');};
  return g;}});
 })();

diff --git a/js/engine.js b/js/engine.js
@@ -24,13 +24,18 @@ A.text=(s,x,y,col,sc,al)=>{s=String(s).toUpperCase();sc=sc||1;const w=s.length*4
 A.hud2=(a,b)=>{A.text(A.nm(0)+' '+a,6,4,K.c,2);A.text(b+' '+A.nm(1),W-6,4,K.p,2,'r');};
 
 
-/* ---------- mini 3D (flat-shaded painter's renderer) ---------- */
-A.cam={x:0,y:1.2,z:-4,ry:0,rx:0,f:210};let F3=[];
+/* ---------- mini 3D (flat-shaded painter's renderer with fog) ---------- */
+A.cam={x:0,y:1.2,z:-4,ry:0,rx:0,f:210};A.fog=null;A.sun=[.35,.85,-.4];let F3=[];
 A.p3=(x,y,z)=>{const c=A.cam;let dx=x-c.x,dy=y-c.y,dz=z-c.z;const cy=Math.cos(c.ry),sy=Math.sin(c.ry);let tx=dx*cy-dz*sy,tz=dx*sy+dz*cy;const cx=Math.cos(c.rx),sx=Math.sin(c.rx);let ty=dy*cx-tz*sx;tz=dy*sx+tz*cx;return[160+tx*c.f/tz,120-ty*c.f/tz,tz];};
-A.face=(pts,col,shade)=>{const P=pts.map(p=>A.p3(p[0],p[1],p[2]));if(P.some(p=>p[2]<.08))return;let z=0;for(const p of P)z+=p[2];z/=P.length;let f=1;if(shade!==false){const a=pts[0],b=pts[1],c=pts[2],ux=b[0]-a[0],uy=b[1]-a[1],uz=b[2]-a[2],vx=c[0]-a[0],vy=c[1]-a[1],vz=c[2]-a[2];const nx=uy*vz-uz*vy,ny=uz*vx-ux*vz,nz=ux*vy-uy*vx,n=Math.hypot(nx,ny,nz)||1;f=.55+.45*Math.max(0,(nx*.3+ny*.8-nz*.5)/n);}F3.push({z,P,col:A.shade(col,f)});};
-A.shade=(hex,f)=>{if(f===1||hex[0]!=='#')return hex;const n=parseInt(hex.slice(1),16),r=Math.min(255,(n>>16)*f|0),g=Math.min(255,((n>>8)&255)*f|0),b=Math.min(255,(n&255)*f|0);return'rgb('+r+','+g+','+b+')';};
+const hex2=h=>{const n=parseInt(h.slice(1),16);return[n>>16,(n>>8)&255,n&255];};
+A.mix=(a,b,t)=>{const A_=hex2(a),B_=hex2(b);return'rgb('+(A_[0]+(B_[0]-A_[0])*t|0)+','+(A_[1]+(B_[1]-A_[1])*t|0)+','+(A_[2]+(B_[2]-A_[2])*t|0)+')';};
+A.shade=(hex,f,z)=>{if(hex[0]!=='#')return hex;let[r,g,b]=hex2(hex);r=Math.min(255,r*f);g=Math.min(255,g*f);b=Math.min(255,b*f);if(A.fog&&z!==undefined){const t=A.clamp((z-A.fog.near)/(A.fog.far-A.fog.near),0,1);const F_=hex2(A.fog.col);r+=(F_[0]-r)*t;g+=(F_[1]-g)*t;b+=(F_[2]-b)*t;}return'rgb('+(r|0)+','+(g|0)+','+(b|0)+')';};
+A.face=(pts,col,shade)=>{const P=pts.map(p=>A.p3(p[0],p[1],p[2]));if(P.some(p=>p[2]<.08))return;if(P.every(p=>p[0]<-40)||P.every(p=>p[0]>360)||P.every(p=>p[1]<-40)||P.every(p=>p[1]>280))return;let z=0;for(const p of P)z+=p[2];z/=P.length;let f=1;if(shade!==false){const a=pts[0],b=pts[1],c=pts[2],ux=b[0]-a[0],uy=b[1]-a[1],uz=b[2]-a[2],vx=c[0]-a[0],vy=c[1]-a[1],vz=c[2]-a[2];let nx=uy*vz-uz*vy,ny=uz*vx-ux*vz,nz=ux*vy-uy*vx;const n=Math.hypot(nx,ny,nz)||1;const s=A.sun,d=(nx*s[0]+ny*s[1]+nz*s[2])/n;f=.5+.5*Math.abs(d)+(d>0?.15:0);}F3.push({z,P,col:A.shade(col,f,z)});};
 A.box3=(x,y,z,w,h,d,col)=>{const a=x-w/2,b=x+w/2,c=z-d/2,e=z+d/2;A.face([[a,y+h,c],[b,y+h,c],[b,y+h,e],[a,y+h,e]],col);A.face([[a,y,c],[a,y+h,c],[b,y+h,c],[b,y,c]],col);A.face([[b,y,e],[b,y+h,e],[a,y+h,e],[a,y,e]],col);A.face([[a,y,e],[a,y+h,e],[a,y+h,c],[a,y,c]],col);A.face([[b,y,c],[b,y+h,c],[b,y+h,e],[b,y,e]],col);};
-A.flush=()=>{F3.sort((a,b)=>b.z-a.z);for(const f of F3)A.poly(f.P,f.col,1);F3=[];};
+A.cyl3=(x,y,z,r,h,col,n,ax_)=>{n=n||8;for(let i=0;i<n;i++){const a=i/n*6.283,b=(i+1)/n*6.283;if(ax_==='x'){A.face([[x-h/2,y+Math.cos(a)*r,z+Math.sin(a)*r],[x+h/2,y+Math.cos(a)*r,z+Math.sin(a)*r],[x+h/2,y+Math.cos(b)*r,z+Math.sin(b)*r],[x-h/2,y+Math.cos(b)*r,z+Math.sin(b)*r]],col);}else{A.face([[x+Math.cos(a)*r,y,z+Math.sin(a)*r],[x+Math.cos(a)*r,y+h,z+Math.sin(a)*r],[x+Math.cos(b)*r,y+h,z+Math.sin(b)*r],[x+Math.cos(b)*r,y,z+Math.sin(b)*r]],col);}}if(ax_!=='x'){const top=[];for(let i=0;i<n;i++)top.push([x+Math.cos(i/n*6.283)*r,y+h,z+Math.sin(i/n*6.283)*r]);A.face(top,col);}};
+A.shadow3=(x,z,w,d)=>{const P=[[x-w/2,.01,z-d/2],[x+w/2,.01,z-d/2],[x+w/2,.01,z+d/2],[x-w/2,.01,z+d/2]].map(p=>A.p3(p[0],p[1],p[2]));if(P.some(p=>p[2]<.08))return;F3.push({z:Math.max(...P.map(p=>p[2]))+.01,P,col:'rgba(0,0,0,.35)'});};
+A.flush=()=>{F3.sort((a,b)=>b.z-a.z);const c=A.c;for(const f of F3){c.fillStyle=f.col;c.beginPath();c.moveTo(f.P[0][0],f.P[0][1]);for(let i=1;i<f.P.length;i++)c.lineTo(f.P[i][0],f.P[i][1]);c.closePath();c.fill();if(A.hd){c.strokeStyle=f.col;c.lineWidth=.6;c.stroke();}}F3=[];};
+A.skyband=(top,bot,horizon)=>{horizon=horizon||130;for(let i=0;i<24;i++)A.rect(0,i*horizon/24,W,horizon/24+1,A.mix(top,bot,i/23));};
 
 /* ---------- sound ---------- */
 let ac=null,mute=false;
@@ -81,11 +86,12 @@ function render(){
 }
 let last=0,acc=0;
 function frame(ts_){if(state==='hub')return;acc+=Math.min(100,ts_-last);last=ts_;let n=0;while(acc>=16.667&&n<5){step();acc-=16.667;n++;}if(n===5)acc=0;if(state!=='hub')render();requestAnimationFrame(frame);}
-A.open=game=>{cur=game;sel=0;state='title';g=null;try{if(location.hash!=='#'+game.id)history.replaceState(null,'','#'+game.id);}catch(e){}document.body.classList.add('playing');last=performance.now();acc=0;requestAnimationFrame(frame);};
-A.close=()=>{state='hub';g=null;try{history.replaceState(null,'',location.pathname+location.search);}catch(e){}document.body.classList.remove('playing');const f=document.querySelector('[data-id="'+(cur&&cur.id)+'"]');if(f)f.focus();};
+A.open=game=>{cur=game;sel=0;state='title';g=null;A.setHD(!!game.hd);try{if(location.hash!=='#'+game.id)history.replaceState(null,'','#'+game.id);}catch(e){}document.body.classList.add('playing');last=performance.now();acc=0;requestAnimationFrame(frame);};
+A.close=()=>{state='hub';g=null;A.setHD(false);try{history.replaceState(null,'',location.pathname+location.search);}catch(e){}document.body.classList.remove('playing');const f=document.querySelector('[data-id="'+(cur&&cur.id)+'"]');if(f)f.focus();};
 A.toggleMute=()=>{mute=!mute;const b=document.getElementById('mute');if(b)b.textContent=mute?'Sound off':'Sound on';};
 
 const tc=t=>t.split(' ').map(w=>/\d/.test(w)?w:w.charAt(0)+w.slice(1).toLowerCase()).join(' ');
+A.hd=false;A.setHD=on=>{const scr=document.getElementById('scr');if(!scr||A.hd===on)return;A.hd=on;scr.width=on?640:320;scr.height=on?480:240;A.c=scr.getContext('2d');A.c.imageSmoothingEnabled=false;if(on)A.c.scale(2,2);};
 function boot(){
  const scr=document.getElementById('scr');A.c=scr.getContext('2d');A.c.imageSmoothingEnabled=false;
  const PREV=['ArrowUp','ArrowDown','ArrowLeft','ArrowRight','Space','Enter','Slash'];

diff --git a/style.css b/style.css
@@ -30,7 +30,7 @@ h1{font-family:var(--pixel);font-weight:400;font-size:clamp(1.5rem,5.4vw,3.4rem)
 .chips button:active{transform:translateY(3px);box-shadow:0 1px 0 #1a1140}
 .chips button[aria-pressed="true"]{background:var(--pink);box-shadow:0 4px 0 #8e1b52,0 0 14px rgba(255,63,142,.7)}
 /* cabinets */
-.grid{display:grid;grid-template-columns:repeat(auto-fill,minmax(176px,1fr));gap:22px 18px}
+.grid{display:grid;grid-template-columns:repeat(auto-fill,minmax(176px,1fr));gap:22px 18px;perspective:900px}
 .cab{display:flex;flex-direction:column;text-align:center;padding:0 0 12px;background:var(--grape);border:0;color:var(--cream);cursor:pointer;font-family:var(--body);position:relative;
  box-shadow:0 0 0 3px var(--ink),0 8px 0 #1a1140,0 8px 0 3px var(--ink);clip-path:polygon(6px 0,calc(100% - 6px) 0,100% 6px,100% 100%,0 100%,0 6px)}
 .cab[hidden]{display:none}
@@ -43,7 +43,8 @@ h1{font-family:var(--pixel);font-weight:400;font-size:clamp(1.5rem,5.4vw,3.4rem)
 .cab .btns{display:flex;justify-content:center;gap:6px;margin-top:9px}
 .cab .btns i{width:12px;height:12px;border-radius:50%;background:var(--pink);box-shadow:0 2px 0 #8e1b52}
 .cab .btns i:nth-child(2){background:var(--teal);box-shadow:0 2px 0 #178a7d}.cab .btns i:nth-child(3){background:var(--marquee);box-shadow:0 2px 0 #a67f12}
-.cab:hover,.cab:focus-visible{background:#4a3a9a;box-shadow:0 0 0 3px var(--teal),0 8px 0 #1a1140,0 8px 0 3px var(--teal),0 0 22px rgba(47,232,208,.5)}
+.cab{transition:transform .18s ease,box-shadow .18s ease}
+.cab:hover,.cab:focus-visible{transform:translateY(-6px) rotateX(4deg) scale(1.03);background:#4a3a9a;box-shadow:0 0 0 3px var(--teal),0 8px 0 #1a1140,0 8px 0 3px var(--teal),0 0 22px rgba(47,232,208,.5)}
 .cab:hover .mq,.cab:focus-visible .mq{background:var(--teal)}
 button:focus-visible{outline:3px solid var(--teal);outline-offset:3px}
 .foot{margin-top:44px;color:#b9b0e6;font-size:.9rem;max-width:72ch;background:rgba(7,3,15,.75);padding:14px 16px;border-left:4px solid var(--teal)}
@@ -65,7 +66,7 @@ body.playing{overflow:hidden}body.playing #cab{display:flex}body.playing .lobby,
 .pad button:active{background:var(--pink)}
 .ab{display:flex;gap:14px}.ab button{width:66px;height:66px;border-radius:50%;background:var(--pink);box-shadow:0 4px 0 #8e1b52;font-family:var(--pixel);font-size:.8rem}.ab button:first-child{background:var(--teal);box-shadow:0 4px 0 #178a7d;color:var(--ink)}
 @media (pointer:coarse){.pad{display:flex}.crt{width:min(100vw,calc((100vh - 260px)*4/3))}}
-@media (prefers-reduced-motion:reduce){.bg .floor,.sign .bulbs,.insert{animation:none}}
+@media (prefers-reduced-motion:reduce){.bg .floor,.sign .bulbs,.insert{animation:none}.cab{transition:none}.cab:hover{transform:none}}
 
 .tools{display:flex;gap:10px;justify-content:center;margin:0 0 22px;flex-wrap:wrap}
 .tools input{font:.62rem var(--pixel);color:var(--cream);background:var(--ink);border:2px solid var(--grape);padding:12px 14px 10px;width:min(100%,320px);outline:0}
